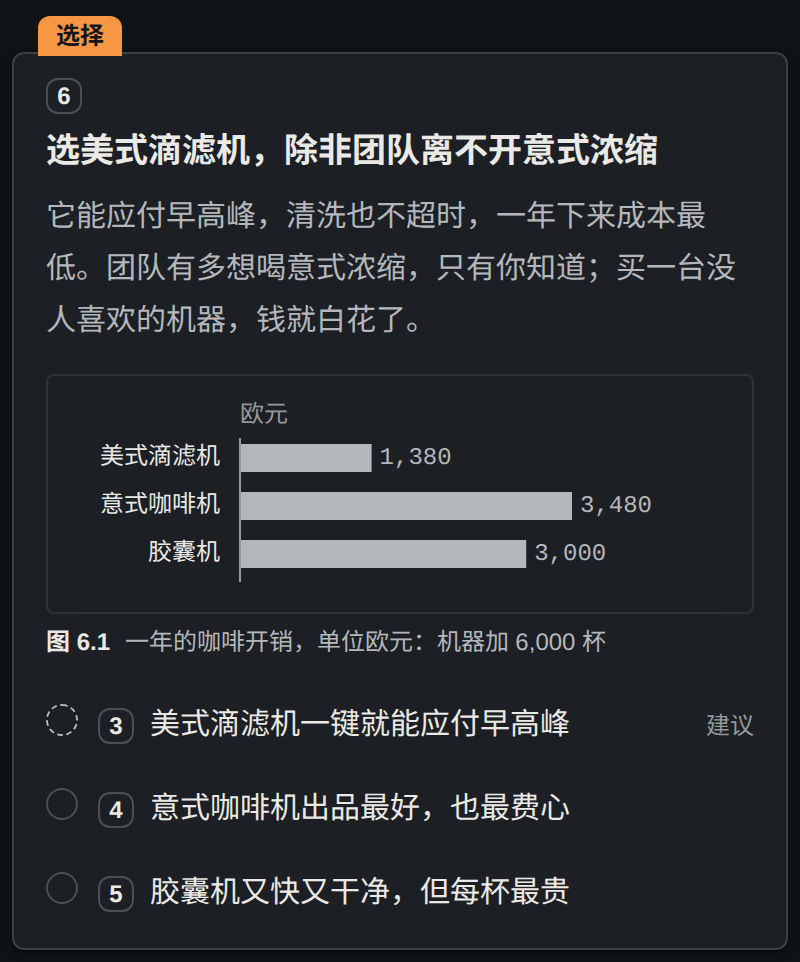
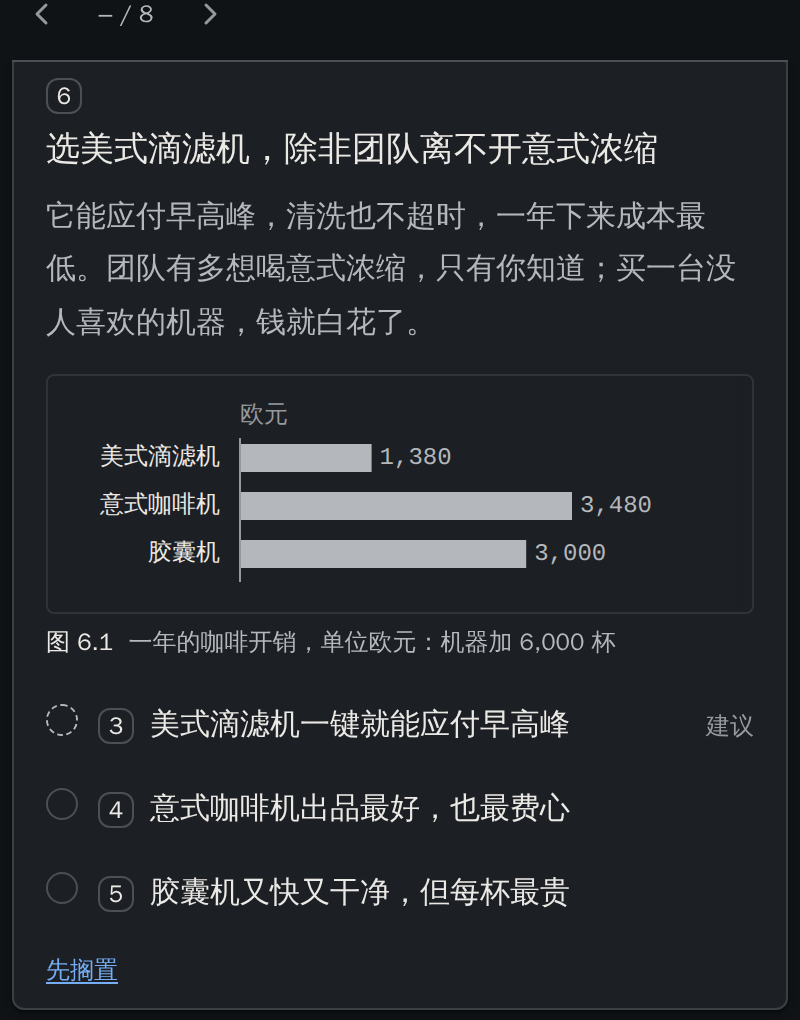
Site: every picture retaken from 0.7.0; in a frame the bar keeps to the asks
The landing page's pictures showed the old header and the desk across. In a
frame (the sample on the landing page) the bar no longer shows Set aside
all: each ask still has its own, and the page around the frame owns the rest.

diff --git a/.cards/design-review/board.html b/.cards/design-review/board.html
@@ -1201,8 +1201,9 @@ dialog .made { margin-right: auto; font-size: var(--t-xs); color: var(--fg-3); }
 /* In a frame the tools are a strip along its lower edge, not a box that floats over a card. */
 .embed .bar { left: 0; right: 0; bottom: 0; transform: none; max-width: none; flex-wrap: nowrap; justify-content: space-between; border-width: 1px 0 0; border-radius: 0; box-shadow: none; }
 .embed .page { padding-bottom: calc(var(--bar-h, 56px) + var(--s5)); }
-/* In a frame the page around it is the way to other boards. */
-.embed .switcher, .embed .switch { display: none; }
+/* In a frame the page around it is the way to other boards, and the bar keeps to what a reader
+   needs first: the asks themselves (each still has its own Set aside). */
+.embed .switcher, .embed .switch, .embed .aside-all { display: none; }
 
 /* ---------- full screen ---------- */
 /* The board takes the whole screen (Shift + F): the bar stays, what the board is about goes

diff --git a/skill/runtime/board.css b/skill/runtime/board.css
@@ -1185,8 +1185,9 @@ dialog .made { margin-right: auto; font-size: var(--t-xs); color: var(--fg-3); }
 /* In a frame the tools are a strip along its lower edge, not a box that floats over a card. */
 .embed .bar { left: 0; right: 0; bottom: 0; transform: none; max-width: none; flex-wrap: nowrap; justify-content: space-between; border-width: 1px 0 0; border-radius: 0; box-shadow: none; }
 .embed .page { padding-bottom: calc(var(--bar-h, 56px) + var(--s5)); }
-/* In a frame the page around it is the way to other boards. */
-.embed .switcher, .embed .switch { display: none; }
+/* In a frame the page around it is the way to other boards, and the bar keeps to what a reader
+   needs first: the asks themselves (each still has its own Set aside). */
+.embed .switcher, .embed .switch, .embed .aside-all { display: none; }
 
 /* ---------- full screen ---------- */
 /* The board takes the whole screen (Shift + F): the bar stays, what the board is about goes
